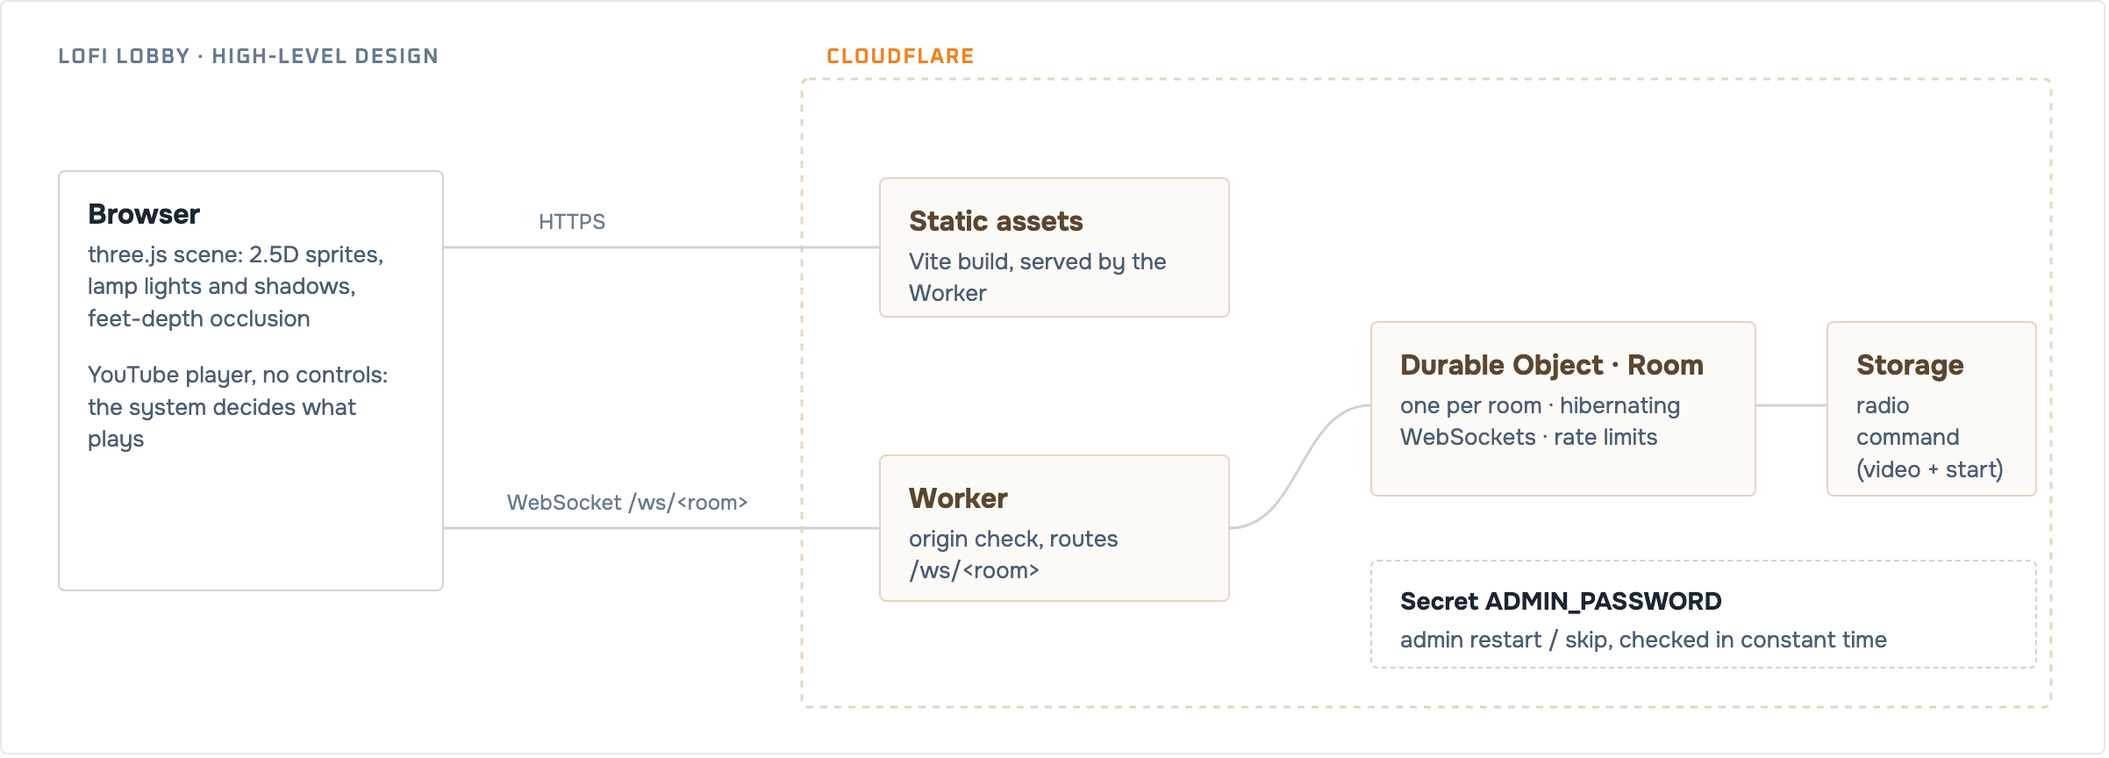
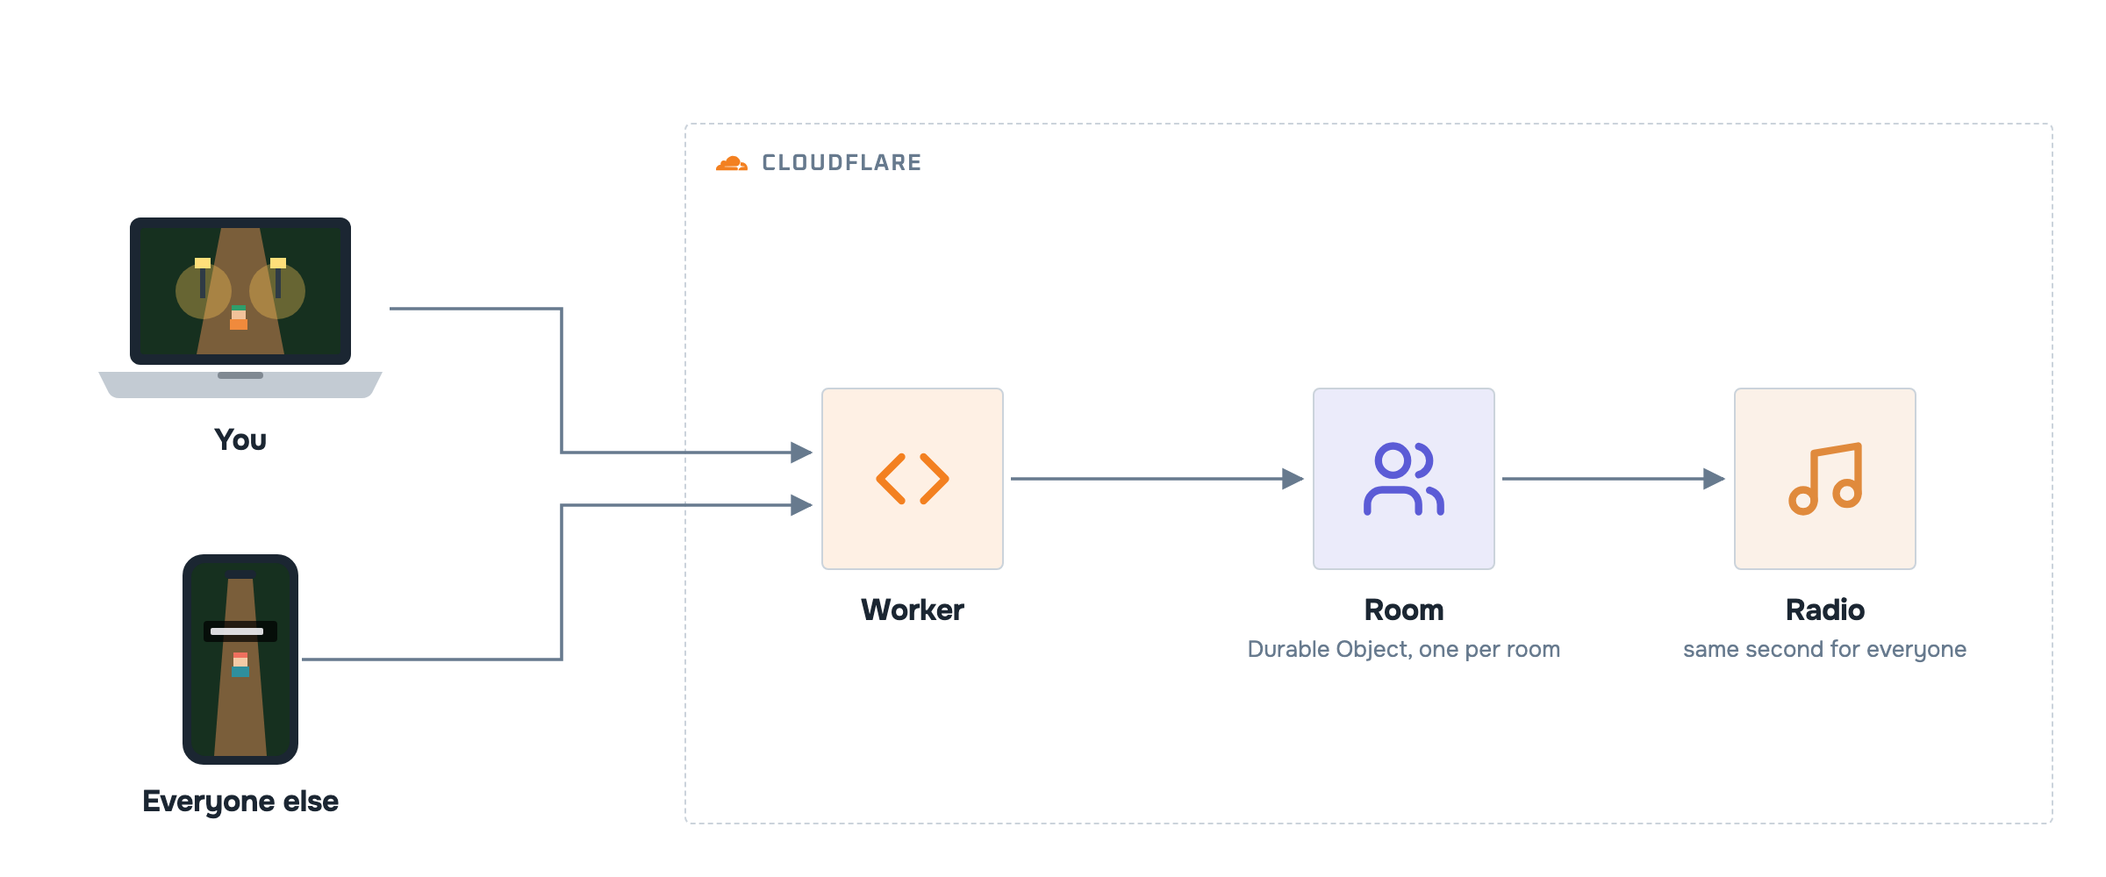
Architecture images in the standard style
- HLD: device illustrations, big icon tiles, orthogonal arrows, Cloudflare frame
- LLD: docs/architecture/draw.py (same framework as second-brain-mcp) -> v1.svg/v1.png,
  service/part/api boxes, one colour per flow with pill labels and a legend
- scripts/render-docs.sh renders banner, HLD and LLD

Claude-Session: https://claude.ai/code/session_0171Udt86Um12ik7XmgczQTo

diff --git a/docs/assets/hld.html b/docs/assets/hld.html
@@ -1,35 +1,47 @@
 <!doctype html><html><head><meta charset="utf-8">
-<!-- High-level design image for the README. Render to PNG at 2x: scripts/render-docs.sh -->
+<!-- High-level design for the README, same style as the LLD maps: big icon tiles, devices on the left,
+     orthogonal arrows, the Cloudflare frame. Render to PNG at 2x: scripts/render-docs.sh -->
 <link href="https://fonts.googleapis.com/css2?family=Onest:wght@400;500;600;700;800&family=Oxanium:wght@600&display=swap" rel="stylesheet">
 <script>if (location.search.includes("theme=dark")) document.documentElement.dataset.theme = "dark";</script>
 <style>
-:root{--bg:#FFFFFF;--line:#E3E8ED;--line2:#CBD3DB;--ink:#1B2632;--muted:#4A5D72;--subtle:#677A8E;--sand-bg:#FCFAF7;--sand-line:#E6D5C1;--sand-ink:#5B4630;--sand:#8A6A3F;--cf:#F38020}
-[data-theme=dark]{--bg:#0D1117;--line:#30363D;--line2:#3D4752;--ink:#F0F3F6;--muted:#B6C1CC;--subtle:#8E9DAD;--sand-bg:#1A1712;--sand-line:#5B4630;--sand-ink:#E6D5C1;--sand:#C9A77F}
+:root{--bg:#FFFFFF;--line2:#CBD3DB;--ink:#1B2632;--subtle:#677A8E;--arrow:#677A8E;--bezel:#1B2632;--screen:#E8EEF4;--bar:#CBD3DB;--base:#C3CBD3}
+[data-theme=dark]{--bg:#0D1117;--line2:#3D4752;--ink:#F0F3F6;--subtle:#8E9DAD;--arrow:#8E9DAD;--bezel:#4A5866;--screen:#E8EEF4;--bar:#CBD3DB;--base:#8E9DAD}
 *{box-sizing:border-box;margin:0}body{background:var(--bg);font-family:Onest,sans-serif;color:var(--ink)}
-.eb{font-family:Oxanium,Onest,sans-serif;font-weight:600;font-size:12px;letter-spacing:.08em;text-transform:uppercase;color:var(--subtle)}
-.box{position:absolute;border:1px solid var(--line2);border-radius:4px;background:var(--bg);padding:14px 16px}
-.box b{display:block;font-size:16px;font-weight:700}.box span{display:block;font-size:13px;color:var(--muted);margin-top:4px;line-height:1.4}
-.cf{border-color:var(--sand-line);background:var(--sand-bg)}.cf b{color:var(--sand-ink)}
-.lbl{position:absolute;font-size:12px;color:var(--subtle);background:var(--bg);padding:0 6px}
+.eb{font-family:Oxanium,Onest,sans-serif;font-weight:600;font-size:13px;letter-spacing:.08em;text-transform:uppercase;color:var(--subtle)}
+.sq{position:absolute;width:104px;height:104px;border:1px solid var(--line2);border-radius:4px;display:flex;align-items:center;justify-content:center}
+.nm{position:absolute;width:200px;text-align:center;font-weight:700;font-size:17px;color:var(--ink);letter-spacing:-.01em}
 </style></head><body>
-<div style="width:1200px;height:430px;position:relative;border:1px solid var(--line);border-radius:4px;overflow:hidden">
- <div class="eb" style="position:absolute;left:32px;top:24px">Lofi Lobby · high-level design</div>
- <div class="eb" style="position:absolute;left:470px;top:24px;color:var(--cf)">Cloudflare</div>
- <svg style="position:absolute;left:0;top:0" width="1200" height="430" fill="none" stroke="var(--line2)" stroke-width="1.5">
-  <rect x="456" y="44" width="712" height="358" rx="4" stroke="var(--sand-line)" stroke-dasharray="4 4"/>
-  <path d="M252 140 H500"/><path d="M252 300 H500"/>
-  <path d="M700 300 C740 300 740 230 780 230"/><path d="M1000 230 H1040"/>
-  
+<div style="width:1200px;height:500px;position:relative;background:var(--bg)">
+ <div style="position:absolute;left:390px;top:70px;width:780px;height:400px;border:1px dashed var(--line2);border-radius:4px"></div>
+ <div style="position:absolute;left:408px;top:84px;display:flex;align-items:center;gap:8px" class="eb">
+  <svg viewBox="0 0 24 24" width="18" height="18"><path d="M16.5088 16.8447c.1475-.5068.0908-.9707-.1553-1.3154-.2246-.3164-.6045-.499-1.0615-.5205l-8.6592-.1123a.1559.1559 0 0 1-.1333-.0713c-.0283-.042-.0351-.0986-.021-.1553.0278-.084.1123-.1484.2036-.1562l8.7359-.1123c1.0351-.0489 2.1601-.8868 2.5537-1.9136l.499-1.3013c.0215-.0561.0293-.1128.0147-.168-.5625-2.5463-2.835-4.4453-5.5499-4.4453-2.5039 0-4.6284 1.6177-5.3876 3.8614-.4927-.3658-1.1187-.5625-1.794-.499-1.2026.119-2.1665 1.083-2.2861 2.2856-.0283.31-.0069.6128.0635.894C1.5683 13.171 0 14.7754 0 16.752c0 .1748.0142.3515.0352.5273.0141.083.0844.1475.1689.1475h15.9814c.0909 0 .1758-.0645.2032-.1553l.12-.4268zm2.7568-5.5634c-.0771 0-.1611 0-.2383.0112-.0566 0-.1054.0415-.127.0976l-.3378 1.1744c-.1475.5068-.0918.9707.1543 1.3164.2256.3164.6055.498 1.0625.5195l1.8437.1133c.0557 0 .1055.0263.1329.0703.0283.043.0351.1074.0214.1562-.0283.084-.1132.1485-.204.1553l-1.921.1123c-1.041.0488-2.1582.8867-2.5527 1.914l-.1406.3585c-.0283.0713.0215.1416.0986.1416h6.5977c.0771 0 .1474-.0489.169-.126.1122-.4082.1757-.837.1757-1.2803 0-2.6025-2.125-4.727-4.7344-4.727" fill="#F38020"/></svg>
+  <span>Cloudflare</span></div>
+ <svg style="position:absolute;left:0;top:0" width="1200" height="500">
+  <defs><marker id="a" viewBox="0 0 10 10" refX="9" refY="5" markerWidth="7" markerHeight="7" orient="auto"><path d="M0 0L10 5L0 10z" style="fill:var(--arrow)"/></marker></defs>
+  <g fill="none" style="stroke:var(--arrow)" stroke-width="1.8" marker-end="url(#a)">
+   <path d="M222 176 H320 V258 H462"/><path d="M172 376 H320 V288 H462"/>
+   <path d="M576 273 H742"/><path d="M856 273 H982"/>
+  </g>
  </svg>
- <div class="box" style="left:32px;top:96px;width:220px;height:240px">
-  <b>Browser</b><span>three.js scene: 2.5D sprites, lamp lights and shadows, feet-depth occlusion</span>
-  <span style="margin-top:14px">YouTube player, no controls: the system decides what plays</span>
- </div>
- <div class="lbl" style="left:300px;top:118px">HTTPS</div>
- <div class="lbl" style="left:282px;top:278px">WebSocket /ws/&lt;room&gt;</div>
- <div class="box cf" style="left:500px;top:100px;width:200px;height:80px"><b>Static assets</b><span>Vite build, served by the Worker</span></div>
- <div class="box cf" style="left:500px;top:258px;width:200px;height:84px"><b>Worker</b><span>origin check, routes /ws/&lt;room&gt;</span></div>
- <div class="box cf" style="left:780px;top:182px;width:220px;height:100px"><b>Durable Object · Room</b><span>one per room · hibernating WebSockets · rate limits</span></div>
- <div class="box cf" style="left:1040px;top:182px;width:120px;height:100px"><b>Storage</b><span>radio command (video + start)</span></div>
- <div class="box" style="left:780px;top:318px;width:380px;height:62px;border-style:dashed"><b style="font-size:14px">Secret ADMIN_PASSWORD</b><span>admin restart / skip, checked in constant time</span></div>
+ <!-- devices: two people in the lobby -->
+ <div style="position:absolute;left:52px;top:120px"><svg width="170" height="112" viewBox="0 0 170 112"><rect x="22" y="4" width="126" height="84" rx="6" fill="var(--bezel)"/><rect x="28" y="10" width="114" height="72" rx="2" fill="#16301F"/>
+  <path d="M74 10 H96 L110 82 H60 Z" fill="#7A5E3A"/><circle cx="64" cy="46" r="16" fill="#FFC95A" opacity=".35"/><circle cx="106" cy="46" r="16" fill="#FFC95A" opacity=".35"/>
+  <rect x="62" y="30" width="3" height="20" fill="#2F3B45"/><rect x="59" y="27" width="9" height="6" fill="#FFDF7A"/><rect x="105" y="30" width="3" height="20" fill="#2F3B45"/><rect x="102" y="27" width="9" height="6" fill="#FFDF7A"/>
+  <rect x="80" y="54" width="8" height="3" fill="#2F9E6B"/><rect x="80" y="57" width="8" height="5" fill="#F2C29A"/><rect x="79" y="62" width="10" height="6" fill="#F08A3C"/>
+  <path d="M4 92 H166 L160 104 Q158 107 154 107 H16 Q12 107 10 104 Z" fill="var(--base)"/><rect x="72" y="92" width="26" height="4" rx="2" fill="var(--bezel)" opacity=".4"/></svg></div>
+ <div class="nm" style="left:37px;top:240px">You</div>
+ <div style="position:absolute;left:102px;top:314px"><svg width="70" height="124" viewBox="0 0 70 124"><rect x="2" y="2" width="66" height="120" rx="12" fill="var(--bezel)"/><rect x="7" y="7" width="56" height="110" rx="8" fill="#16301F"/>
+  <rect x="26" y="11" width="18" height="5" rx="2.5" fill="var(--bezel)"/><path d="M28 16 H42 L50 117 H20 Z" fill="#7A5E3A"/>
+  <rect x="14" y="40" width="42" height="12" rx="2" fill="#000" opacity=".7"/><rect x="18" y="44" width="30" height="4" rx="1" fill="#F2F2F5" opacity=".9"/>
+  <rect x="31" y="58" width="8" height="3" fill="#EF6F5E"/><rect x="31" y="61" width="8" height="5" fill="#F4CAA6"/><rect x="30" y="66" width="10" height="6" fill="#2F8F9D"/></svg></div>
+ <div class="nm" style="left:37px;top:446px">Everyone else</div>
+ <!-- tiles -->
+ <div class="sq" style="left:468px;top:221px;background:color-mix(in srgb,#F38020 12%,var(--bg))"><svg viewBox="0 0 24 24" width="50" height="50" fill="none" stroke="#F38020" stroke-width="2" stroke-linecap="round" stroke-linejoin="round"><path d="m9 6-6 6 6 6"/><path d="m15 6 6 6-6 6"/></svg></div>
+ <div class="nm" style="left:420px;top:337px">Worker</div>
+ <div class="sq" style="left:748px;top:221px;background:color-mix(in srgb,#5B5BD6 12%,var(--bg))"><svg viewBox="0 0 24 24" width="50" height="50" fill="none" stroke="#5B5BD6" stroke-width="2" stroke-linecap="round" stroke-linejoin="round"><path d="M16 21v-2a4 4 0 0 0-4-4H6a4 4 0 0 0-4 4v2"/><circle cx="9" cy="7" r="4"/><path d="M22 21v-2a4 4 0 0 0-3-3.87M16 3.13a4 4 0 0 1 0 7.75"/></svg></div>
+ <div class="nm" style="left:700px;top:337px">Room</div>
+ <div style="position:absolute;left:700px;top:362px;width:200px;text-align:center;font-size:13px;color:var(--subtle)">Durable Object, one per room</div>
+ <div class="sq" style="left:988px;top:221px;background:color-mix(in srgb,#E08A3C 12%,var(--bg))"><svg viewBox="0 0 24 24" width="50" height="50" fill="none" stroke="#E08A3C" stroke-width="2" stroke-linecap="round" stroke-linejoin="round"><path d="M9 18V5l12-2v13"/><circle cx="6" cy="18" r="3"/><circle cx="18" cy="16" r="3"/></svg></div>
+ <div class="nm" style="left:940px;top:337px">Radio</div>
+ <div style="position:absolute;left:940px;top:362px;width:200px;text-align:center;font-size:13px;color:var(--subtle)">same second for everyone</div>
 </div></body></html>

diff --git a/docs/architecture/draw.py b/docs/architecture/draw.py
@@ -1,0 +1,146 @@
+#!/usr/bin/env python3
+"""Draws the architecture map (docs/architecture/v1.svg) in the Ganeko Notebook style:
+solid colored boxes with white text, navy captions, dashed arrows, solid pill labels.
+Run: python3 docs/architecture/draw.py"""
+import html, json, os
+
+# Brand marks from Simple Icons (CC0, https://simpleicons.org), filled; the rest are Lucide-style
+# line icons (ISC), like the Ganeko Notebook's icon set.
+BRANDS = json.load(open(os.path.join(os.path.dirname(__file__), "brands.json")))
+LUCIDE = {
+    "cpu": '<rect x="4" y="4" width="16" height="16" rx="2"/><rect x="9" y="9" width="6" height="6" rx="1"/><path d="M15 2v2M15 20v2M2 15h2M2 9h2M20 15h2M20 9h2M9 2v2M9 20v2"/>',
+    "lock": '<rect width="18" height="11" x="3" y="11" rx="2"/><path d="M7 11V7a5 5 0 0 1 10 0v4"/>',
+    "branch": '<path d="M6 3v12"/><circle cx="18" cy="6" r="3"/><circle cx="6" cy="18" r="3"/><path d="M18 9a9 9 0 0 1-9 9"/>',
+    "queue": '<path d="M8 6h13M8 12h13M8 18h13M3 6h.01M3 12h.01M3 18h.01"/>',
+    "workflow": '<rect width="8" height="8" x="3" y="3" rx="2"/><path d="M7 11v4a2 2 0 0 0 2 2h4"/><rect width="8" height="8" x="13" y="13" rx="2"/>',
+    "database": '<ellipse cx="12" cy="5" rx="9" ry="3"/><path d="M3 5v14a9 3 0 0 0 18 0V5"/><path d="M3 12a9 3 0 0 0 18 0"/>',
+    "key": '<path d="m15.5 7.5 2.3 2.3a1 1 0 0 0 1.4 0l2.1-2.1a1 1 0 0 0 0-1.4L19 4"/><path d="m21 2-9.6 9.6"/><circle cx="7.5" cy="15.5" r="5.5"/>',
+    "search": '<circle cx="11" cy="11" r="7"/><path d="m20 20-3.5-3.5"/>',
+    "sparkles": '<path d="M9.94 15.5A2 2 0 0 0 8.5 14.06l-6.14-1.58a.5.5 0 0 1 0-.96L8.5 9.94A2 2 0 0 0 9.94 8.5l1.58-6.14a.5.5 0 0 1 .96 0L14.06 8.5a2 2 0 0 0 1.44 1.44l6.14 1.58a.5.5 0 0 1 0 .96l-6.14 1.58a2 2 0 0 0-1.44 1.44l-1.58 6.14a.5.5 0 0 1-.96 0z"/>',
+    "terminal": '<path d="m4 17 6-6-6-6"/><path d="M12 19h8"/>',
+    "chat": '<path d="M7.9 20A9 9 0 1 0 4 16.1L2 22z"/>',
+    "laptop": '<path d="M20 16V7a2 2 0 0 0-2-2H6a2 2 0 0 0-2 2v9m16 0H4m16 0 1.28 2.55a1 1 0 0 1-.9 1.45H3.62a1 1 0 0 1-.9-1.45L4 16"/>',
+    "smartphone": '<rect width="14" height="20" x="5" y="2" rx="2" ry="2"/><path d="M12 18h.01"/>',
+    "play": '<polygon points="6 3 20 12 6 21 6 3"/>',
+    "globe": '<circle cx="12" cy="12" r="10"/><path d="M2 12h20M12 2a15.3 15.3 0 0 1 4 10 15.3 15.3 0 0 1-4 10 15.3 15.3 0 0 1-4-10 15.3 15.3 0 0 1 4-10z"/>',
+    "users": '<path d="M16 21v-2a4 4 0 0 0-4-4H6a4 4 0 0 0-4 4v2"/><circle cx="9" cy="7" r="4"/><path d="M22 21v-2a4 4 0 0 0-3-3.87M16 3.13a4 4 0 0 1 0 7.75"/>',
+    "box": '<path d="M21 8a2 2 0 0 0-1-1.73l-7-4a2 2 0 0 0-2 0l-7 4A2 2 0 0 0 3 8v8a2 2 0 0 0 1 1.73l7 4a2 2 0 0 0 2 0l7-4A2 2 0 0 0 21 16Z"/><path d="m3.3 7 8.7 5 8.7-5M12 22V12"/>',
+    "music": '<path d="M9 18V5l12-2v13"/><circle cx="6" cy="18" r="3"/><circle cx="18" cy="16" r="3"/>',
+    "monitor": '<rect width="20" height="14" x="2" y="3" rx="2"/><path d="M8 21h8M12 17v4"/>',
+}
+
+def glyph(name, x, y, size=26, color="#fff"):
+    """A white icon at (x, y): a brand mark (filled) or a Lucide icon (stroked)."""
+    k = size / 24
+    if name in BRANDS:
+        return f'<path transform="translate({x},{y}) scale({k})" d="{BRANDS[name]}" fill="{color}"/>'
+    return f'<g transform="translate({x},{y}) scale({k})" fill="none" stroke="{color}" stroke-width="2" stroke-linecap="round" stroke-linejoin="round">{LUCIDE[name]}</g>'
+
+C = dict(indigo="#5B5BD6", purple="#8E6FCB", teal="#3FA796", green="#2F8A5B", red="#D1495B", orange="#E08A3C", slate="#4A5866")
+DARK = dict(indigo="#3B3BA8", purple="#5E4396", teal="#22705F", green="#1F5E3D", red="#9C2C3B", orange="#9A5512", slate="#2E3944")
+NAVY, MUTED, BG, LINE = "#1B2632", "#4A5D72", "#FCFAF7", "#677A8E"
+W, H = 220, 64
+
+def box(x, y, title, sub, color, caption=None, w=W, icons=(), kind="service"):
+    """kind: service = managed resource (solid); part = a class inside the Worker (outlined); api = no resource, only called (dashed)."""
+    ink = "#fff" if kind == "service" else (DARK[color] if kind == "part" else C[color])
+    if kind == "service":
+        t = f'<rect x="{x}" y="{y}" width="{w}" height="{H}" rx="6" fill="{C[color]}"/>'
+    elif kind == "part":
+        t = f'<rect x="{x}" y="{y}" width="{w}" height="{H}" rx="6" fill="{C[color]}" fill-opacity="0.2"/>'
+    else:
+        t = f'<rect x="{x}" y="{y}" width="{w}" height="{H}" rx="6" fill="#fff" stroke="{C[color]}" stroke-width="2" stroke-dasharray="5 4"/>'
+    # icons on the left; text centred in the space that's left
+    for i, name in enumerate(icons):
+        t += glyph(name, x + 14 + i * 32, y + 19, color=ink)
+    left = x + (14 + 32 * len(icons) if icons else 0)
+    cx = left + (x + w - left) / 2
+    t += f'<text x="{cx}" y="{y + 27}" text-anchor="middle" class="t" style="fill:{ink}">{html.escape(title)}</text>'
+    t += f'<text x="{cx}" y="{y + 47}" text-anchor="middle" class="s" style="fill:{ink}">{html.escape(sub)}</text>'
+    if caption:
+        t += f'<text x="{x + w/2}" y="{y + H + 18}" text-anchor="middle" class="c">{html.escape(caption)}</text>'
+    return t
+
+def devices(cx, y, names, label):
+    """A caption with small device icons before it, centred under a box."""
+    tw = 6.6 * len(label); iw = 20 * len(names); x = cx - (iw + 6 + tw) / 2
+    t = "".join(f'<g transform="translate({x + i*20},{y - 13}) scale(0.67)" fill="none" stroke="{MUTED}" stroke-width="2" stroke-linecap="round" stroke-linejoin="round">{LUCIDE[n]}</g>' for i, n in enumerate(names))
+    return t + f'<text x="{x + iw + 6}" y="{y}" class="c">{html.escape(label)}</text>'
+
+FLOW = dict(site=LINE, room="#5B5BD6", radio="#E08A3C", admin="#D1495B")
+FLOW_MARKERS = "".join(f'<marker id="m-{k}" viewBox="0 0 10 10" refX="9" refY="5" markerWidth="7" markerHeight="7" orient="auto-start-reverse"><path d="M0,0 L10,5 L0,10 z" fill="{v}"/></marker>' for k, v in FLOW.items())
+
+def legend(x, y, items):
+    """Flow names: a short coloured line and its name, in a row."""
+    t = ""
+    for k, name in items:
+        t += f'<path d="M{x},{y} L{x+28},{y}" class="a" style="stroke:{FLOW[k]};stroke-width:2.2"/><text x="{x+36}" y="{y+4}" class="lg">{html.escape(name)}</text>'
+        x += 50 + 7.4 * len(name)
+    return t
+
+def arrow(points, label=None, at=0.5, both=False, flow=None, dy=0):
+    d = "M" + " L".join(f"{x},{y}" for x, y in points)
+    style = f' style="stroke:{FLOW[flow]};stroke-width:2.2"' if flow else ""
+    end = f"m-{flow}" if flow else "m"
+    t = f'<path d="{d}" class="a"{style} marker-end="url(#{end})"{" marker-start=\"url(#ms)\"" if both else ""}/>'
+    if label:
+        # label on the longest segment
+        segs = list(zip(points, points[1:]))
+        (x1, y1), (x2, y2) = max(segs, key=lambda s: abs(s[1][0]-s[0][0]) + abs(s[1][1]-s[0][1]))
+        lx, ly = x1 + (x2 - x1) * at, y1 + (y2 - y1) * at + dy  # dy: lift the pill off a short arrow
+        w = 7.2 * len(label) + 16
+        t += f'<rect x="{lx - w/2}" y="{ly - 11}" width="{w}" height="22" rx="11" fill="{FLOW[flow] if flow else NAVY}"/>'
+        t += f'<text x="{lx}" y="{ly + 4}" text-anchor="middle" class="p">{html.escape(label)}</text>'
+    return t
+
+def svg(width, height, title, subtitle, body):
+    return f'''<svg xmlns="http://www.w3.org/2000/svg" viewBox="0 0 {width} {height}" width="{width}" height="{height}" font-family="Onest, Inter, system-ui, sans-serif">
+<defs>
+<marker id="m" viewBox="0 0 10 10" refX="9" refY="5" markerWidth="8" markerHeight="8" orient="auto-start-reverse"><path d="M0,0 L10,5 L0,10 z" fill="{LINE}"/></marker>
+{FLOW_MARKERS}
+<marker id="ms" viewBox="0 0 10 10" refX="9" refY="5" markerWidth="8" markerHeight="8" orient="auto-start-reverse"><path d="M0,0 L10,5 L0,10 z" fill="{LINE}"/></marker>
+<style>.t{{fill:#fff;font-size:15px;font-weight:700}}.s{{fill:#fff;font-size:12px;opacity:.92}}.c{{fill:{MUTED};font-size:12px}}
+.a{{fill:none;stroke:{LINE};stroke-width:1.6;stroke-dasharray:6 5}}.p{{fill:#fff;font-size:11.5px;font-weight:600}}
+.h{{fill:{NAVY};font-size:22px;font-weight:800}}.hs{{fill:{MUTED};font-size:13px}}.g{{fill:none;stroke:#E6D5C1;stroke-width:1.5;stroke-dasharray:2 4}}.gl{{fill:#8C6A43;font-size:12px;font-weight:600}}.lg{{fill:{NAVY};font-size:13px;font-weight:600}}.ft{{font-size:12px;font-weight:700;letter-spacing:.06em}}</style>
+</defs>
+<rect width="100%" height="100%" fill="{BG}"/>
+<text x="32" y="44" class="h">{html.escape(title)}</text><text x="32" y="66" class="hs">{html.escape(subtitle)}</text>
+{body}
+</svg>'''
+
+# ---------- v1 ----------
+# Columns: outside (A) | Worker parts (X1, X2) | storage & secret (X3)
+A, X1, X2, X3 = 40, 440, 800, 1160
+v1 = []
+v1.append('<rect x="376" y="80" width="1044" height="470" rx="10" class="g"/>' + f'<path transform="translate(390,86) scale(0.75)" d="{BRANDS["cloudflare"]}" fill="#F38020"/>' + '<text x="414" y="100" class="gl">CLOUDFLARE</text>')
+# the browser: the scene and the HUD, and the YouTube player it embeds
+v1.append('<rect x="24" y="92" width="252" height="236" rx="10" class="g"/><text x="38" y="112" class="gl">BROWSER</text>')
+v1.append(box(A, 124, "Scene", "three.js · 2.5D sprites", "slate", icons=("globe",)) + devices(A + 110, 206, ("laptop",), "lights, shadows, collision"))
+v1.append(box(A, 232, "HUD", "chat · radio · admin", "slate", icons=("chat",)) + devices(A + 110, 314, ("monitor",), "glass over the scene"))
+v1.append('<rect x="24" y="380" width="252" height="128" rx="10" class="g"/><text x="38" y="400" class="gl">YOUTUBE</text>')
+v1.append(box(A, 412, "IFrame player", "no controls, always visible", "red", "plays at the room's clock time", icons=("play",), kind="api"))
+# static site
+v1.append(box(X1, 124, "Static assets", "Vite build", "green", "index.html + one JS bundle", icons=("box",)))
+# the Worker: one deployable holding the router and the room class
+v1.append('<rect x="410" y="232" width="626" height="146" rx="8" fill="#5B5BD6" fill-opacity="0.06" stroke="#5B5BD6" stroke-width="1.5" stroke-dasharray="6 4"/>'
+          '<text x="424" y="370" class="gl" style="fill:#5B5BD6">WORKER</text>')
+v1.append(box(X1, 270, "Router", "origin check · /ws/<room>", "indigo", icons=("workers",), kind="part"))
+v1.append(box(X2, 270, "Room", "Durable Object · one per room", "indigo", icons=("users",), kind="part"))
+v1.append(box(X3, 270, "Storage", "radio command", "orange", "survives every connection", icons=("database",)))
+v1.append(box(X3, 452, "ADMIN_PASSWORD", "Worker secret", "slate", "constant time · 5 tries", icons=("key",)))
+# the site
+v1.append(arrow([(260, 156), (440, 156)], "HTTPS", flow="site"))
+# the room: join, move, chat, and the broadcast back
+v1.append(arrow([(260, 264), (340, 264), (340, 302), (440, 302)], "WebSocket", at=0.5, flow="room"))
+v1.append(arrow([(660, 302), (800, 302)], "join · move · chat", flow="room", dy=-22))
+v1.append(arrow([(660, 302), (800, 302)], flow="room"))
+v1.append(arrow([(880, 334), (880, 420), (300, 420), (300, 280), (260, 280)], "broadcast to the room", at=0.5, flow="room"))
+# the radio
+v1.append(arrow([(1020, 302), (1160, 302)], "radio", flow="radio", dy=-22))
+v1.append(arrow([(1020, 302), (1160, 302)], flow="radio"))
+v1.append(arrow([(240, 296), (240, 412)], flow="radio"))
+# admin
+v1.append(arrow([(960, 334), (960, 484), (1160, 484)], "restart · skip", at=0.5, flow="admin"))
+v1.append(legend(410, 520, [("site", "site"), ("room", "room"), ("radio", "radio"), ("admin", "admin")]))
+open(os.path.join(os.path.dirname(__file__), "v1.svg"), "w").write(svg(1460, 580, "Lofi Lobby · v1", "One Worker, one Durable Object per room, a radio synced by the clock, no server of our own.", "".join(v1)))
+print("ok")

diff --git a/ARCHITECTURE.md b/ARCHITECTURE.md
@@ -2,7 +2,7 @@
 
 The low-level design: every component, how it works and the decision behind it. The [README](README.md) has the simplified view.
 
-![High-level design](docs/assets/hld-light.png)
+![Architecture of v1](docs/architecture/v1.png)
 
 | Concern | How | Decision |
 |---|---|---|
@@ -30,4 +30,4 @@ scripts/            deploy-your-own, README image rendering
 docs/               PRD, spec, ADRs, README images
 ```
 
-The README images come from [`docs/assets/banner.html`](docs/assets/banner.html) and [`docs/assets/hld.html`](docs/assets/hld.html), rendered by [`scripts/render-docs.sh`](scripts/render-docs.sh).
+The map is generated by [`docs/architecture/draw.py`](docs/architecture/draw.py); the README images come from [`docs/assets/banner.html`](docs/assets/banner.html) and [`docs/assets/hld.html`](docs/assets/hld.html), rendered by [`scripts/render-docs.sh`](scripts/render-docs.sh).

diff --git a/README.md b/README.md
@@ -6,7 +6,7 @@
 
 Live: **[lofi-lobby.yudiganeko.workers.dev](https://lofi-lobby.yudiganeko.workers.dev)**
 
-<p align="center"><img src="docs/assets/hld-light.png" alt="High-level design: the browser loads the static site from a Cloudflare Worker and opens a WebSocket to /ws/room, which the Worker routes to one Durable Object per room; the radio command lives in the object's storage" width="720"></p>
+<p align="center"><img src="docs/assets/hld-light.png" alt="High-level design: you and everyone else connect to a Cloudflare Worker, which routes each room to its own Durable Object, which keeps the radio in sync" width="720"></p>
 
 <p align="center"><sub>A simplified view. Every component, with the decision behind it: <a href="ARCHITECTURE.md">ARCHITECTURE.md</a>.</sub></p>
 
